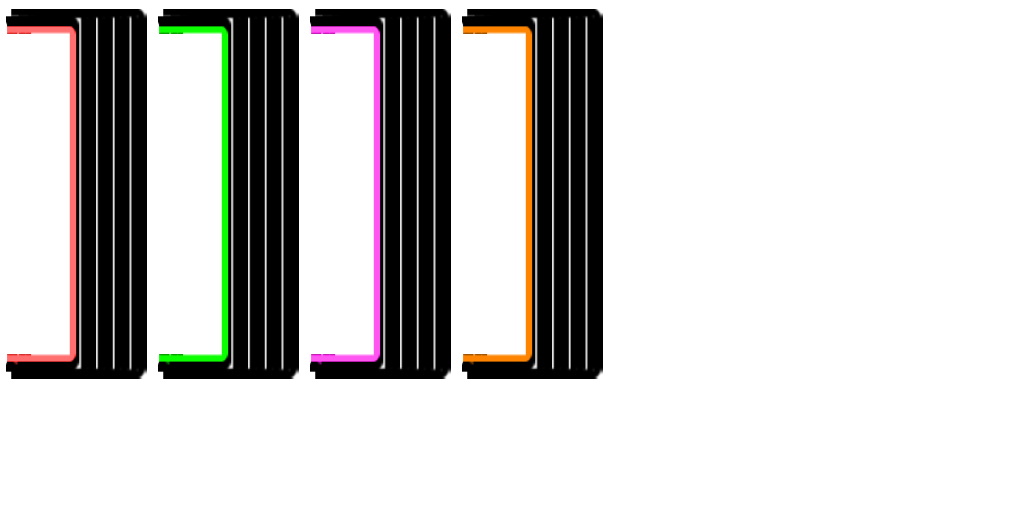
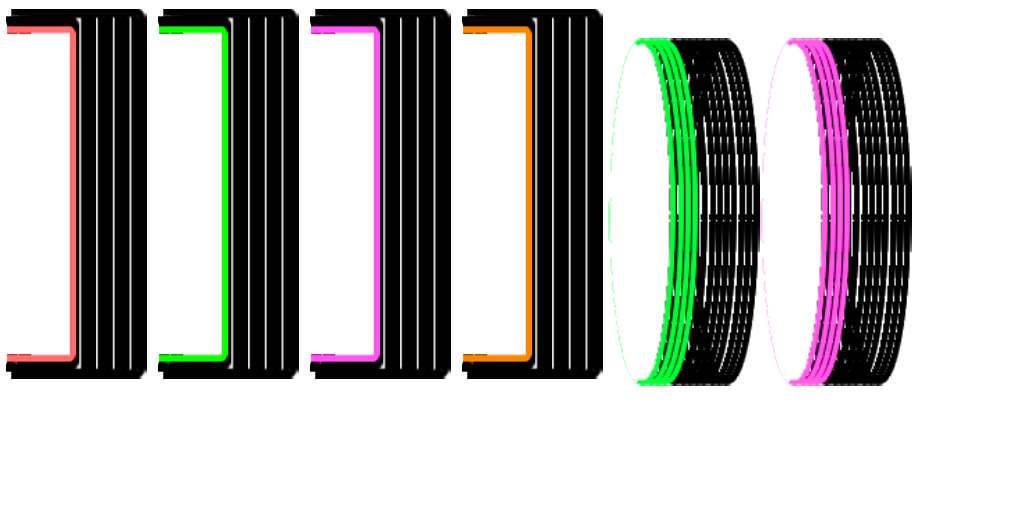
feat: implement layered rendering for gravity and mini portals
- Add `gravity` and `mini` regions to `portals_front.atlas` and `portals_back.atlas`.
- Update `GameRenderer` to load and render separate front and back layers for `GRAVITY` and `MINI` portal types.
- Refactor `GameRenderer` portal drawing logic to use a unified `when` expression and calculate visual width dynamically based on texture region aspect ratios.
- Remove hardcoded `height` overrides in `GravityPortal` and `MiniPortal` classes.
- Remove legacy standalone portal source textures in favor of the new layered atlas system.

Changed region(s): [[0.625, 0.0625, 0.75, 0.7812], [0.75, 0.0625, 0.9062, 0.7812]]

diff --git a/core/src/main/kotlin/io/github/msameer0/rhythmicrush/game/renderer/GameRenderer.kt b/core/src/main/kotlin/io/github/msameer0/rhythmicrush/game/renderer/GameRenderer.kt
@@ -61,6 +61,10 @@ class GameRenderer(
     private val cubePortalFrontRegion: TextureRegion?
     private val shipPortalBackRegion: TextureRegion?
     private val shipPortalFrontRegion: TextureRegion?
+    private val gravityPortalBackRegion: TextureRegion?
+    private val gravityPortalFrontRegion: TextureRegion?
+    private val miniPortalBackRegion: TextureRegion?
+    private val miniPortalFrontRegion: TextureRegion?
     private val gravityPortalRegion: TextureRegion?
     private val miniPortalRegion: TextureRegion?
 
@@ -99,6 +103,11 @@ class GameRenderer(
         cubePortalFrontRegion = atlasManager.portalsFrontAtlas.findRegion("cube")
         shipPortalBackRegion = atlasManager.portalsBackAtlas.findRegion("ship")
         shipPortalFrontRegion = atlasManager.portalsFrontAtlas.findRegion("ship")
+        
+        gravityPortalBackRegion = atlasManager.portalsBackAtlas.findRegion("gravity")
+        gravityPortalFrontRegion = atlasManager.portalsFrontAtlas.findRegion("gravity")
+        miniPortalBackRegion = atlasManager.portalsBackAtlas.findRegion("mini")
+        miniPortalFrontRegion = atlasManager.portalsFrontAtlas.findRegion("mini")
         
         gravityPortalRegion = atlasManager.portalsAtlas.findRegion("gravity_portal")
         miniPortalRegion = atlasManager.portalsAtlas.findRegion("mini_portal")
@@ -241,19 +250,25 @@ class GameRenderer(
             val portal = world.portals.get(i)
             if (portal.x > rightEdge) break
             
-            if (portal.type == AbstractPortal.PortalType.CUBE || portal.type == AbstractPortal.PortalType.SHIP) {
-                val region = if (portal.type == AbstractPortal.PortalType.CUBE) cubePortalBackRegion else shipPortalBackRegion
-                if (region != null) {
-                    val visualH = portal.height
-                    val visualW = visualH * (150f / 384f)
-                    val drawX = portal.x + (portal.width - visualW) / 2f
-                    val drawY = portal.y
-                    batch.draw(region, drawX, drawY, visualW / 2f, visualH / 2f, visualW, visualH, 1f, 1f, portal.rotation)
-                }
+            val region = when (portal.type) {
+                AbstractPortal.PortalType.CUBE -> cubePortalBackRegion
+                AbstractPortal.PortalType.SHIP -> shipPortalBackRegion
+                AbstractPortal.PortalType.GRAVITY -> gravityPortalBackRegion
+                AbstractPortal.PortalType.MINI -> miniPortalBackRegion
+                else -> null
+            }
+            
+            if (region != null) {
+                val visualH = portal.height
+                val visualW = visualH * (region.regionWidth.toFloat() / region.regionHeight.toFloat())
+                val drawX = portal.x + (portal.width - visualW) / 2f
+                val drawY = portal.y
+                batch.draw(region, drawX, drawY, visualW / 2f, visualH / 2f, visualW, visualH, 1f, 1f, portal.rotation)
             } else {
-                val region = portalRegion(portal.type)
-                if (region != null) {
-                    batch.draw(region, portal.x, portal.y, portal.width / 2f, portal.height / 2f, portal.width, portal.height, 1f, 1f, portal.rotation)
+                // Fallback for types not yet moved to layered system
+                val fallback = portalRegion(portal.type)
+                if (fallback != null) {
+                    batch.draw(fallback, portal.x, portal.y, portal.width / 2f, portal.height / 2f, portal.width, portal.height, 1f, 1f, portal.rotation)
                 }
             }
         }
@@ -265,15 +280,20 @@ class GameRenderer(
             val portal = world.portals.get(i)
             if (portal.x > rightEdge) break
             
-            if (portal.type == AbstractPortal.PortalType.CUBE || portal.type == AbstractPortal.PortalType.SHIP) {
-                val region = if (portal.type == AbstractPortal.PortalType.CUBE) cubePortalFrontRegion else shipPortalFrontRegion
-                if (region != null) {
-                    val visualH = portal.height
-                    val visualW = visualH * (150f / 384f)
-                    val drawX = portal.x + (portal.width - visualW) / 2f
-                    val drawY = portal.y
-                    batch.draw(region, drawX, drawY, visualW / 2f, visualH / 2f, visualW, visualH, 1f, 1f, portal.rotation)
-                }
+            val region = when (portal.type) {
+                AbstractPortal.PortalType.CUBE -> cubePortalFrontRegion
+                AbstractPortal.PortalType.SHIP -> shipPortalFrontRegion
+                AbstractPortal.PortalType.GRAVITY -> gravityPortalFrontRegion
+                AbstractPortal.PortalType.MINI -> miniPortalFrontRegion
+                else -> null
+            }
+            
+            if (region != null) {
+                val visualH = portal.height
+                val visualW = visualH * (region.regionWidth.toFloat() / region.regionHeight.toFloat())
+                val drawX = portal.x + (portal.width - visualW) / 2f
+                val drawY = portal.y
+                batch.draw(region, drawX, drawY, visualW / 2f, visualH / 2f, visualW, visualH, 1f, 1f, portal.rotation)
             }
         }
     }

diff --git a/core/src/main/kotlin/io/github/msameer0/rhythmicrush/game/gameplay/interactables/portals/GravityPortal.kt b/core/src/main/kotlin/io/github/msameer0/rhythmicrush/game/gameplay/interactables/portals/GravityPortal.kt
@@ -9,18 +9,15 @@ import io.github.msameer0.rhythmicrush.game.registries.Registry
 class GravityPortal : AbstractPortal {
     constructor(x: Float, y: Float) : super(x, y) {
         this.type = PortalType.GRAVITY
-        this.height = 200f
     }
 
     constructor() : super() {
         this.type = PortalType.GRAVITY
-        this.height = 200f
     }
 
     override fun init(x: Float, y: Float, rotation: Float): GravityPortal {
         super.init(x, y, rotation)
         this.type = PortalType.GRAVITY
-        this.height = 200f
         return this
     }
 

diff --git a/core/src/main/kotlin/io/github/msameer0/rhythmicrush/game/gameplay/interactables/portals/MiniPortal.kt b/core/src/main/kotlin/io/github/msameer0/rhythmicrush/game/gameplay/interactables/portals/MiniPortal.kt
@@ -9,18 +9,15 @@ import io.github.msameer0.rhythmicrush.game.registries.Registry
 class MiniPortal : AbstractPortal {
     constructor(x: Float, y: Float) : super(x, y) {
         this.type = PortalType.MINI
-        this.height = 200f
     }
 
     constructor() : super() {
         this.type = PortalType.MINI
-        this.height = 200f
     }
 
     override fun init(x: Float, y: Float, rotation: Float): MiniPortal {
         super.init(x, y, rotation)
         this.type = PortalType.MINI
-        this.height = 200f
         return this
     }
 